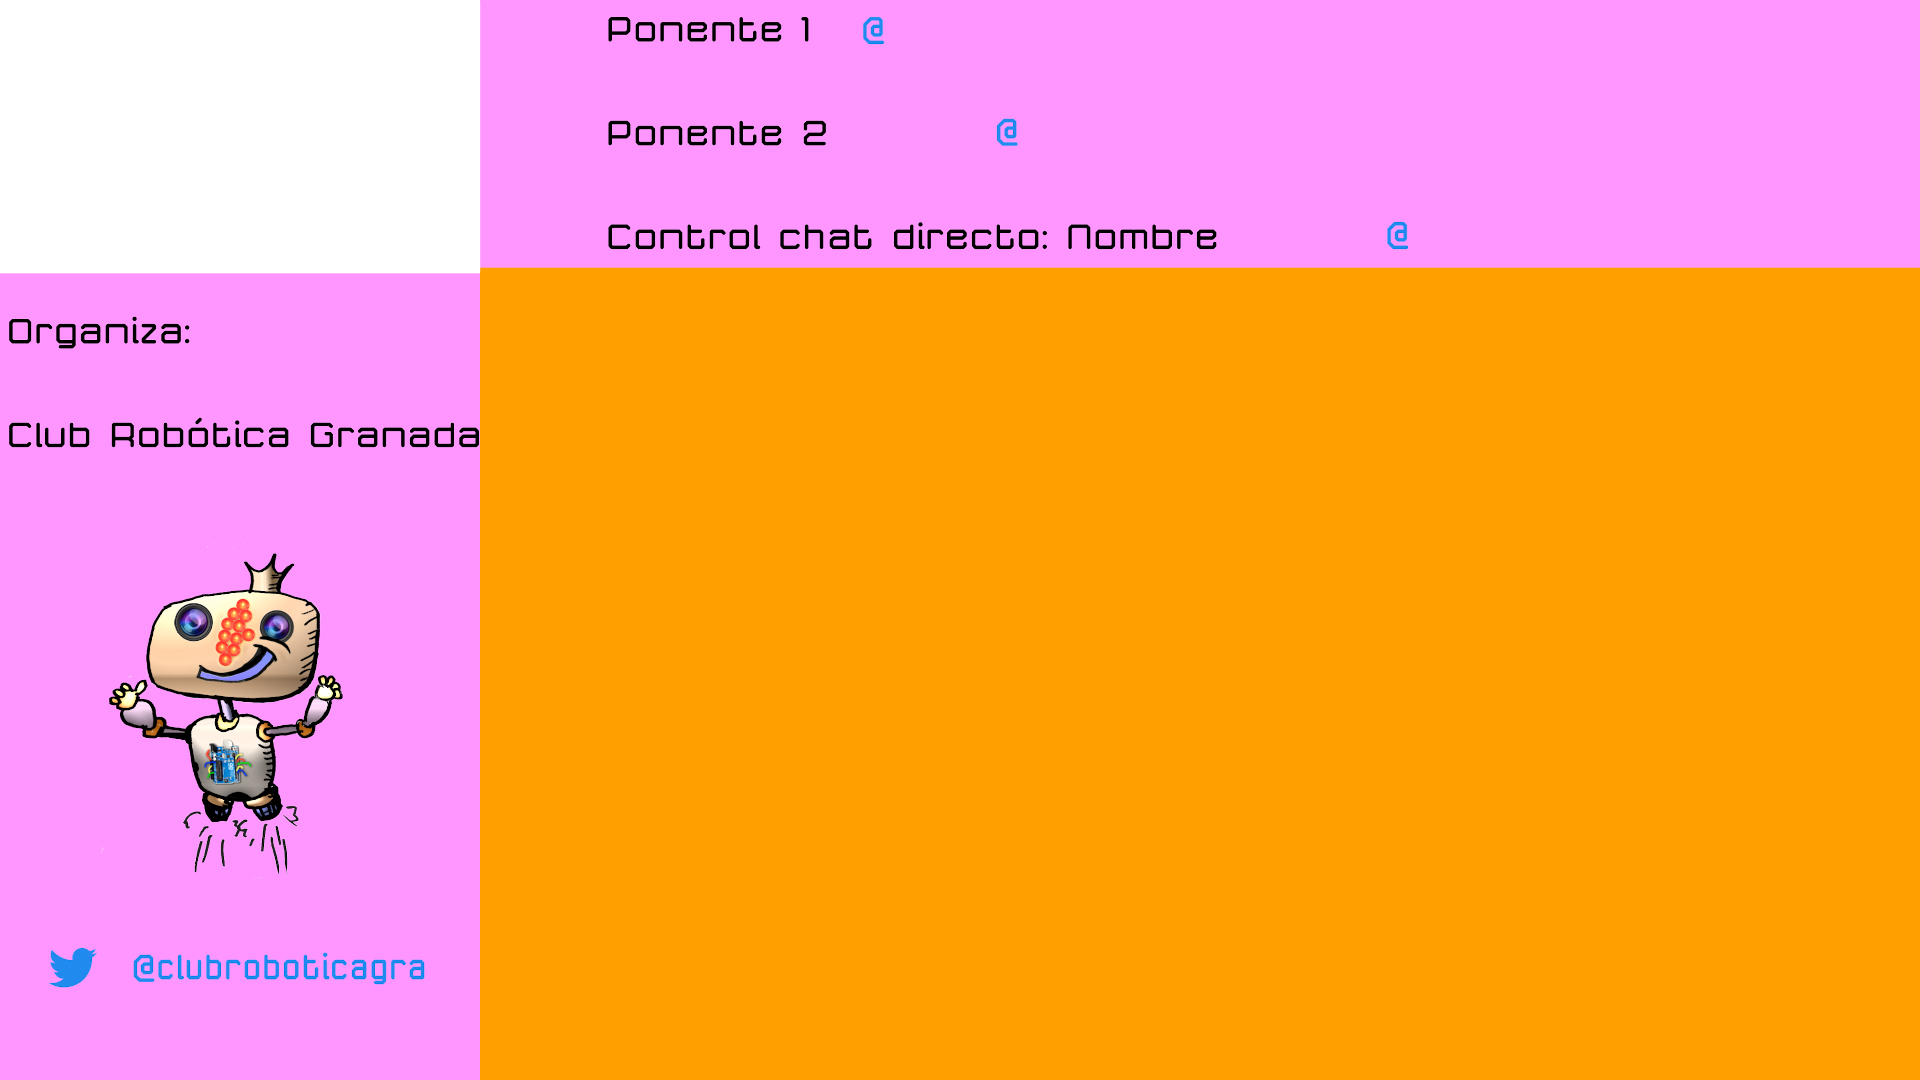
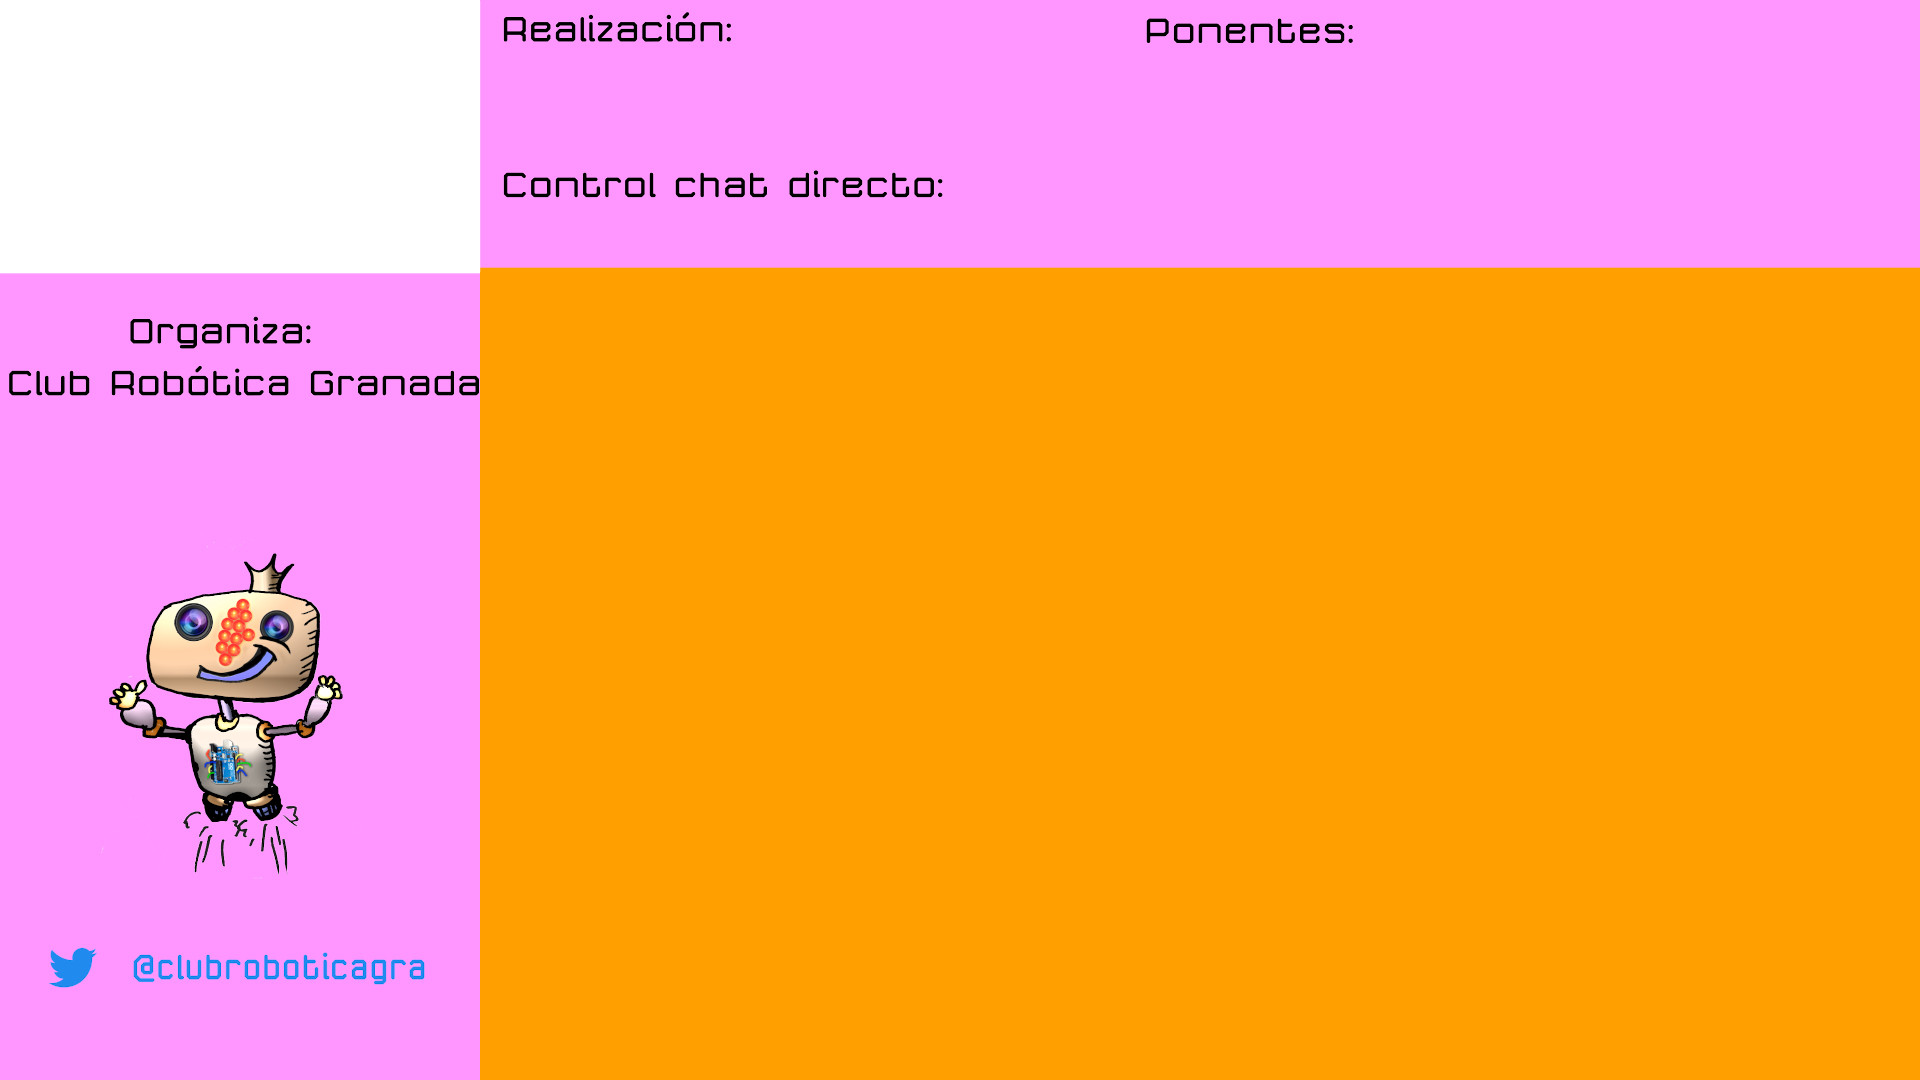
Correcciones

diff --git a/docs/guion.md b/docs/guion.md
@@ -5,12 +5,13 @@ Sección en la que vamos a establecer un posible guión de un taller con dos pon
 * Creamos y seleccionamos el perfil para Youtube y/o Twitch. 1280x720 a 30 FPS y Bitrate 2500
 * Creamos nuestra colección de escenas que va a contener las siguientes:
     * **1-Video-espera**. Video de presentación que se estará reproduciendo durante los minutos de cortesía hasta que los inscritos se unan a la transmisión. La grabación se iniciará justo después de poner el video y la espera no durará mas de cinco minutos.
-    * **2-Patrocinadores**. Antes de iniciar la presentación se dará paso a la escena que va a contener una vista de la cámara del presentador, letreros junto al logo del club que indique quien organiza, el nombre de los ponentes y quien ejerce el control del chat del directo.
+    * **2-Patrocinadores**. Antes de iniciar la presentación se dará paso a la escena que va a contener una vista de la cámara del realizador, letreros junto al logo del club que indique quien organiza, el nombre de los ponentes y quien ejerce el control del chat del directo. Los nombres de las personas se agregan como texto a la escena.
     * **3-Presenta**. El presentador realiza la presentación o inauguración del taller o acto. Se muestra un cartel de fondo y en una esquina la cámara del presentador.
     * **4-Camara-Pantalla-1**. Aquí vamos a poner un fondo con espacio de 240x135px para la cámara del primer ponente, uno de 1680x945px para la pantalla compartida y una zona para un letrero deslizante en la parte inferior ocupando todo el ancho que utilizaremos para mostrar información relevante. Esta misma situación se va a repetir para cada ponente y debemos tener abiertas las salas de control para cada caso y ponente y también tenemos que recordar a los ponentes que deben mantener abiertas las dos pestañas con los enlaces suministrados. Es buena idea tener archivado un listado de enlaces, guardar las pestañas en los marcadores del navegador y hacer pruebas de configuración previas. Justo debajo de la cámara vamos a poner un gif animado que indique que estamos emitiendo en directo.
     * **4bis-4-Camara-Pantalla-1**. Se  trata de las mismas escenas que las descritas en 4, una para cada número, pero esta vez no aparece el texto que se desliza. En la edición del programa se irán intercambiando las escenas 4 y 4bis para no recargar la transmisión con el texto deslizándose.
+    * **4-Camara-Camara-1**. En la misma disposición que en 4bis ahora se muestran dos cámaras, una en pequeño donde se ve al ponente y una en grande donde se ven las evoluciones que el ponente realiza con los materiales que está trabajando.
     * **5-Camara-pantalla-local**. Igual que las escenas 4 pero utilizando cámara y pantalla local, por ejemplo para la persona que está llevando la edición del programa.
-    * * **5bis-Camara-pantalla-local**. Igual que las escenas 4bis pero utilizando cámara y pantalla local, por ejemplo para la persona que está llevando la edición del programa.
+    * **5bis-Camara-pantalla-local**. Igual que las escenas 4bis pero utilizando cámara y pantalla local, por ejemplo para la persona que está llevando la edición del programa.
     * **6-Control-directo**. Escena creada por si la persona encargada de l control de la emisión en directo debe intervenir. Debemos tener en cuenta que el directo tiene un retardo de casi un minuto respecto a lo que está ocurriendo en directo.
     * **7-Final**. Simplemente se pone la imagen de despedida con el logo y un letrero. Desde aquí se hará un fundido a negro justo antes de detener la emisión y la grabación del programa.
     * **PROBLEMAS**. Escena prevista por si existe algún problema en la transmisión en directo. Se muestran códigos QR de enlaces a web, twitter y únete, junto a la presentación de patrocinadores y un texto indicativo de que hay problemas en la emisión. Suena música de fondo
@@ -27,9 +28,20 @@ Todos  están disponibles en el directorio *Recursos* del repositorio. A continu
 | 3-Presenta | inicio-fin.png | inicio-fin.svg | --- |
 | 4-Camara-Pantalla | camara_pantalla_ninja.png <br>emitiendo.gif</br> | camara_pantalla_ninja.svg | Se repite para cada ponente |
 | 4bis-Camara-Pantalla | camara_pantalla_ninja-bis.png <br>emitiendo.gif</br> | camara_pantalla_ninja-bis.svg | Se repite para cada ponente |
+| 4-Camara-Camara | camara_pantalla_ninja-bis.png <br>emitiendo.gif</br> | camara_pantalla_ninja-bis.svg | Se repite para cada ponente |
 | 5-Camara-Pantalla-local | camara_pantalla_ninja.png <br>emitiendo.gif</br> | camara_pantalla_ninja.svg | Se repite para cada ponente |
 | 5bis-Camara-Pantalla-local | camara_pantalla_ninja.png <br>emitiendo.gif</br> | camara_pantalla_ninja.svg | Se repite para cada ponente |
 | 6-Control-directo | Fondo de color #FFAA00 <br>emitiendo.gif</br> <br>ROBOCILIO-transparente.png</br> | ROBOCILIO-transparente.png | --- |
 | 7-Final | inicio-fin.png | inicio-fin.svg | --- |
 | PROBLEMAS | Standby.png | Standby.svg | --- |
 
+</center>
+
+## Ejemplo práctico
+En el enlace siguiente tenemos un video que es un ejemplo práctico realizado con estas configuraciones.
+
+<center>
+
+Vídeo con la grabación del taller [Introducción a Edubasica y su programación con ArduinoBlocks]()
+
+</center>
